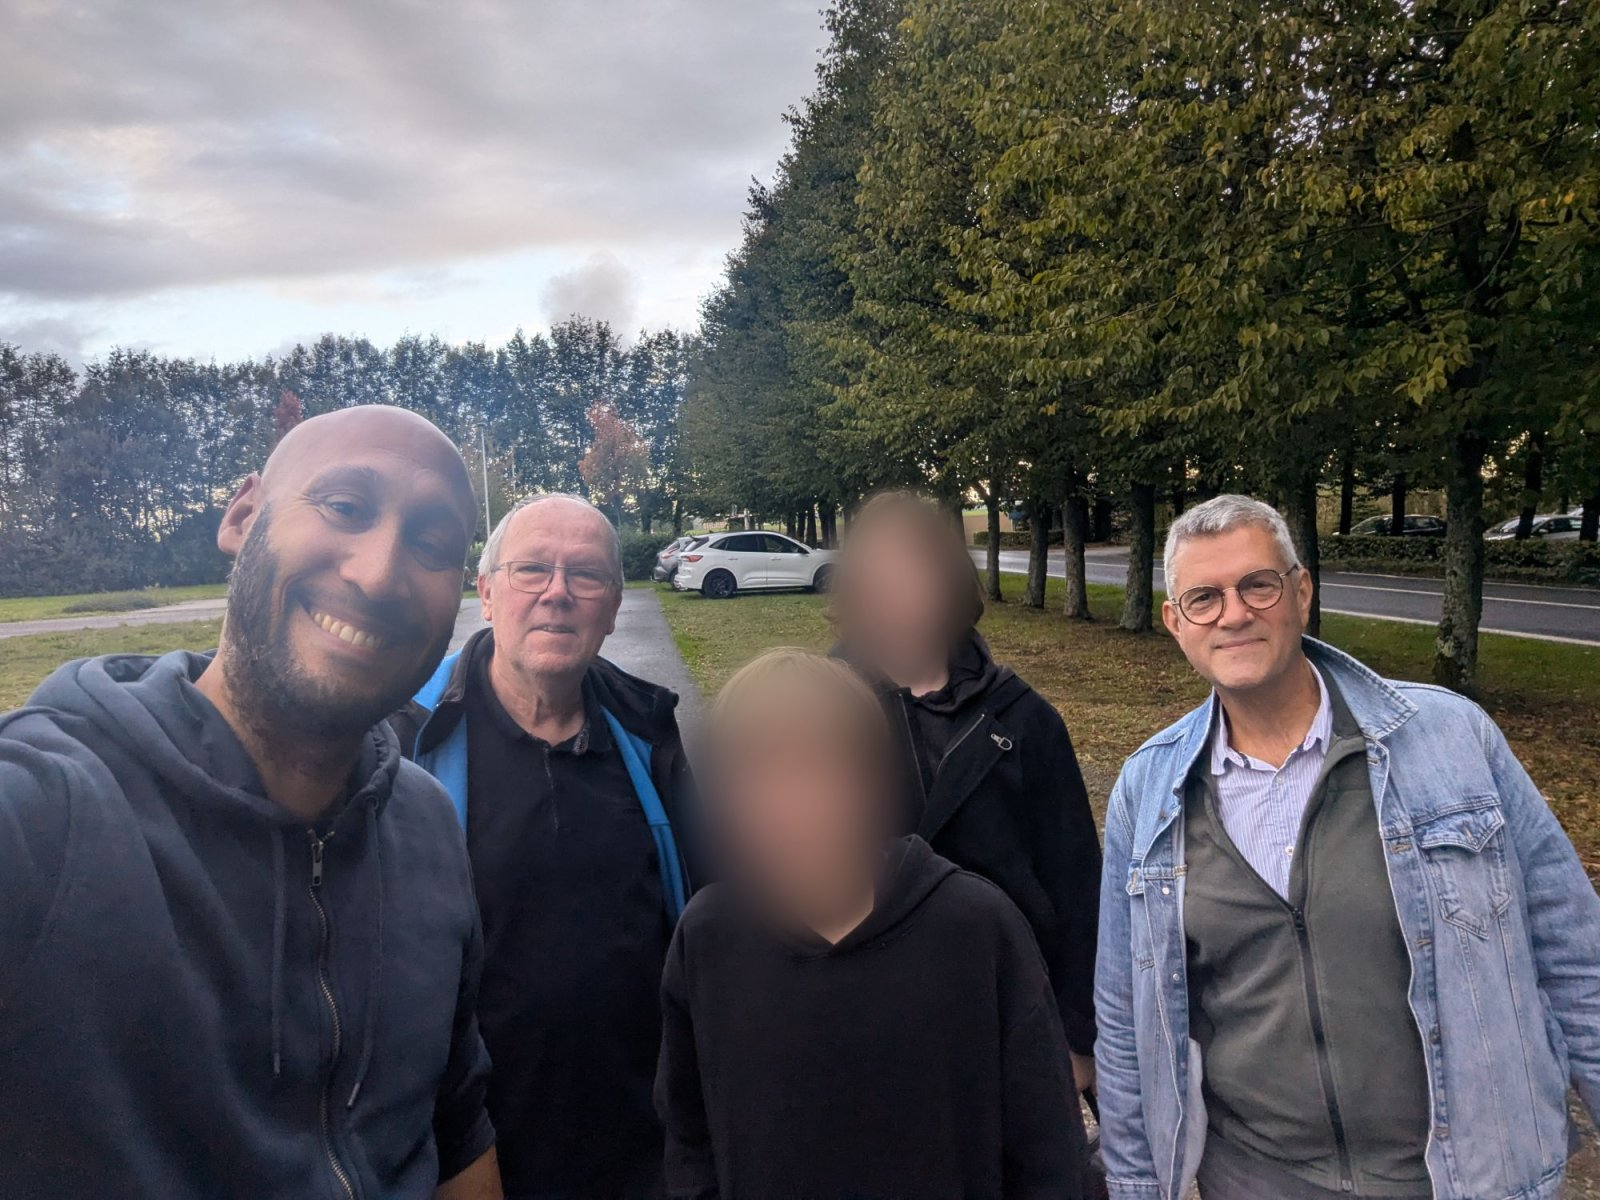
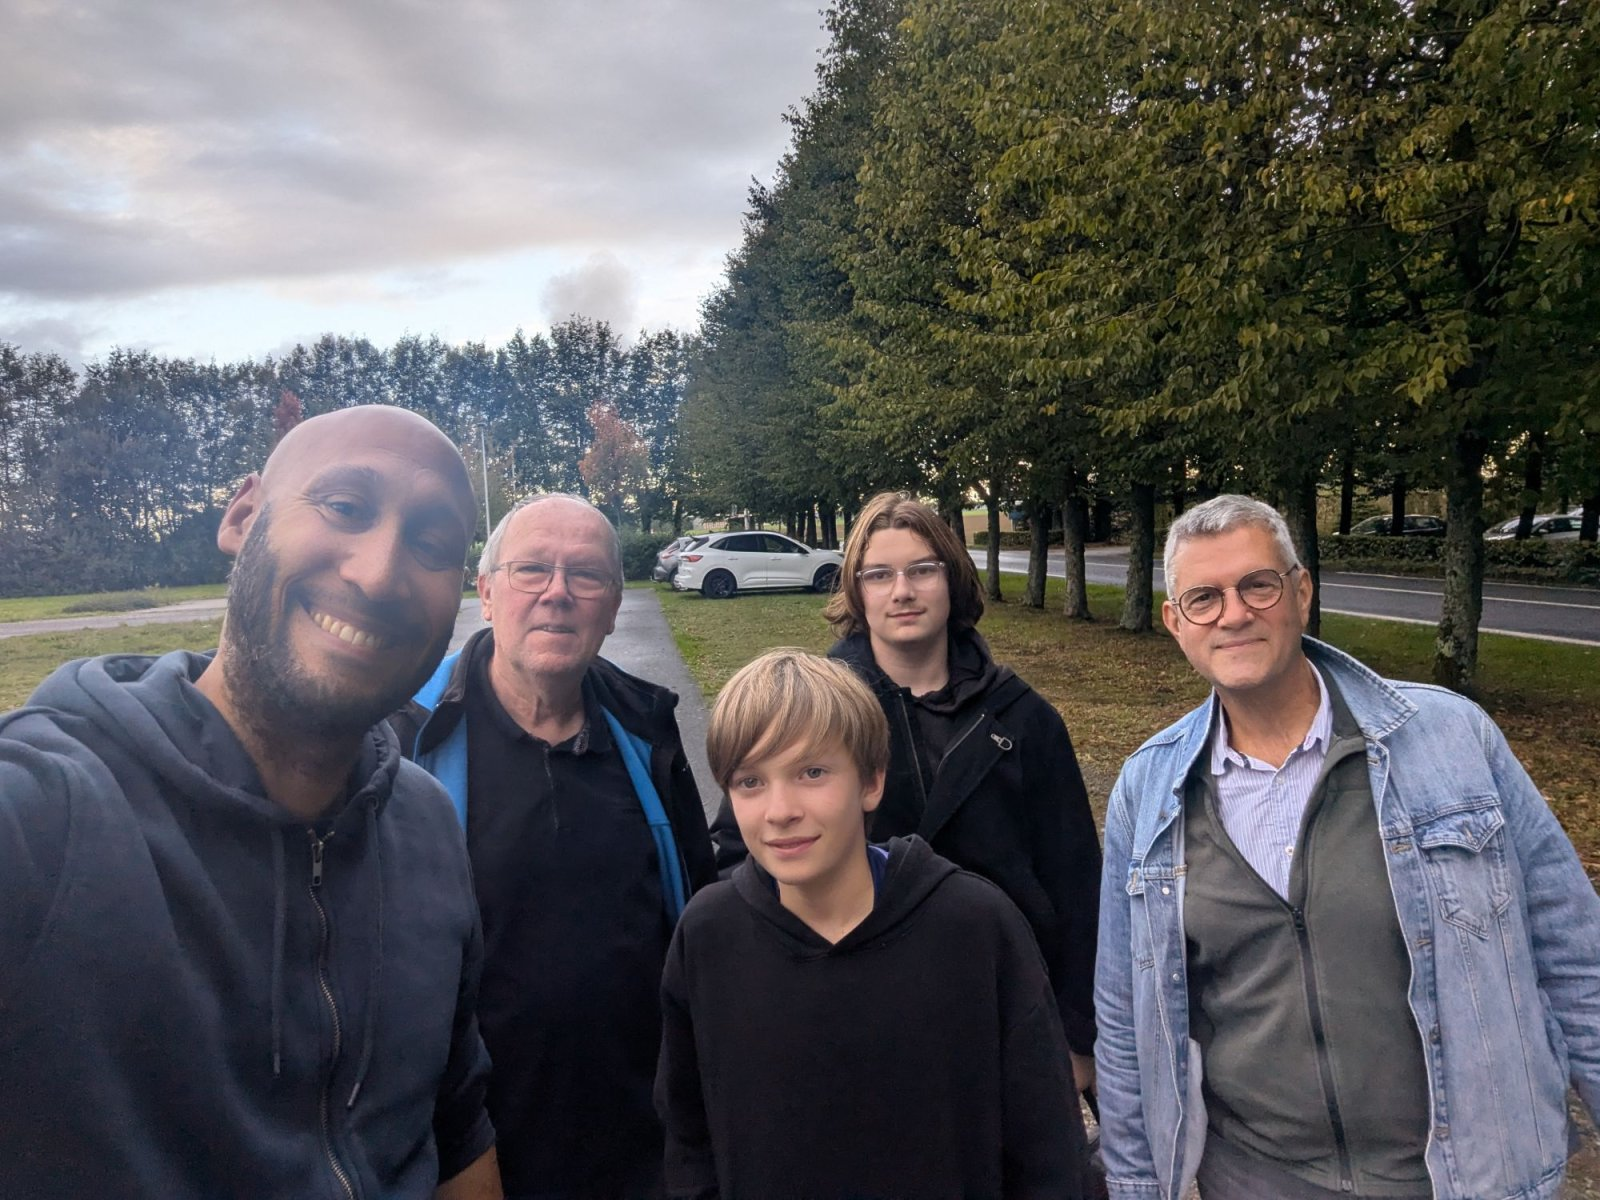
Photos du 11/10 : jeunes du club non floutés (photos 05 et 06), tiers toujours floutés
Claude-Session: https://claude.ai/code/session_01FyVsaCQcnvRoMP4xPWrA74

Changed region(s): [[0.4062, 0.4008, 0.625, 0.8017]]

diff --git a/data.js b/data.js
@@ -83,7 +83,7 @@ const TOURNOIS = [
 /* Galerie photos. Pour ajouter une photo : déposer photo-XX.jpg et photo-XX-mini.jpg dans images/galerie/
    puis ajouter une ligne ci-dessous (la plus récente en premier). legende est facultative. */
 const GALERIE = [
-  { fichier: "photo-05", alt: "Cinq membres du club posent ensemble sur un chemin bordé d'arbres, deux d'entre eux ont le visage flouté", legende: "Championnat par équipes à Gonfreville-l'Orcher (11 octobre 2026)." },
+  { fichier: "photo-05", alt: "Cinq membres du club posent ensemble sur un chemin bordé d'arbres", legende: "Championnat par équipes à Gonfreville-l'Orcher (11 octobre 2026)." },
   { fichier: "photo-06", alt: "Un joueur du club concentré devant son échiquier, dans une salle de tournoi", legende: "Championnat par équipes à Gonfreville-l'Orcher (11 octobre 2026)." },
   { fichier: "photo-07", alt: "Vue d'ensemble de la salle de jeu, remplie de joueurs devant leurs échiquiers", legende: "Championnat par équipes à Gonfreville-l'Orcher (11 octobre 2026)." },
   { fichier: "photo-03", alt: "Une partie en cours au 19e Rapide d'Orcher la Tour, dans une grande salle garnie d'échiquiers", legende: "19e Rapide d'Orcher la Tour, Gonfreville-l'Orcher (4 octobre 2026)." },
